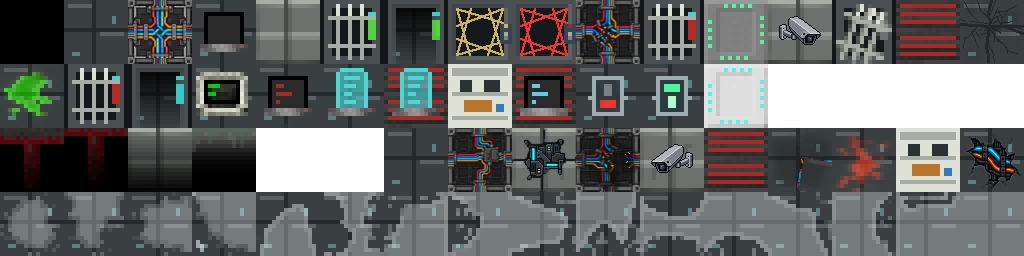
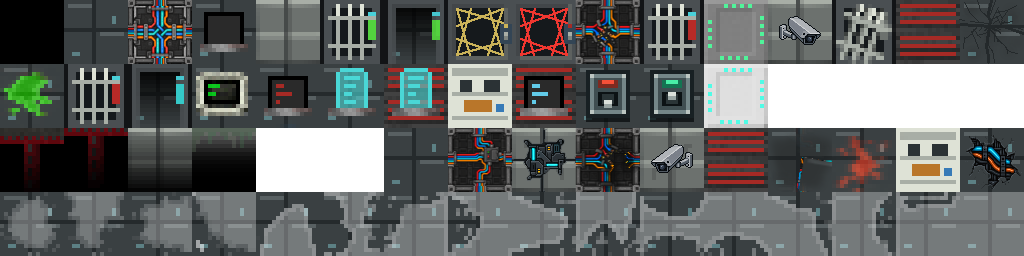
Complete level interaction cleanup and update asset tiles

Changed region(s): [[0.5625, 0.25, 0.6875, 0.5]]

diff --git a/art/terrain/BreakerTileUpdater.java b/art/terrain/BreakerTileUpdater.java
@@ -1,0 +1,107 @@
+import java.awt.Color;
+import java.awt.Graphics2D;
+import java.awt.RenderingHints;
+import java.awt.image.BufferedImage;
+import java.io.File;
+import javax.imageio.ImageIO;
+
+public final class BreakerTileUpdater {
+    private static final int CELL = 64;
+    private static final int COLUMNS = 16;
+    private static final int FLOOR = 1;
+    private static final int BREAKER_OFF = 25;
+    private static final int BREAKER_ON = 26;
+
+    public static void main(String[] args) throws Exception {
+        if (args.length == 0) {
+            throw new IllegalArgumentException("Usage: BreakerTileUpdater <tiles.png>...");
+        }
+
+        for (String path : args) {
+            File atlasFile = new File(path);
+            BufferedImage atlas = ImageIO.read(atlasFile);
+            if (atlas.getWidth() != COLUMNS * CELL || atlas.getHeight() != 4 * CELL) {
+                throw new IllegalArgumentException("Expected a 1024x256 terrain atlas: " + path);
+            }
+
+            BufferedImage source = copy(atlas);
+            copyCell(source, atlas, FLOOR, BREAKER_OFF);
+            copyCell(source, atlas, FLOOR, BREAKER_ON);
+            drawBreaker(atlas, BREAKER_OFF, false);
+            drawBreaker(atlas, BREAKER_ON, true);
+            ImageIO.write(atlas, "png", atlasFile);
+        }
+    }
+
+    private static void drawBreaker(BufferedImage atlas, int cell, boolean powered) {
+        Graphics2D g = cellGraphics(atlas, cell);
+
+        // Shadow and outer mounting plate.
+        g.setColor(new Color(8, 12, 14, 190));
+        g.fillRect(10, 10, 44, 48);
+        g.setColor(new Color(24, 32, 35));
+        g.fillRect(10, 6, 44, 48);
+        g.setColor(new Color(116, 134, 136));
+        g.fillRect(14, 10, 36, 40);
+        g.setColor(new Color(64, 78, 81));
+        g.fillRect(18, 14, 28, 32);
+
+        // Status lamp with a bright core and restrained spill.
+        Color statusDark = powered ? new Color(20, 116, 82) : new Color(126, 42, 32);
+        Color status = powered ? new Color(72, 238, 166) : new Color(246, 80, 56);
+        g.setColor(statusDark);
+        g.fillRect(22, 16, 20, 8);
+        g.setColor(status);
+        g.fillRect(26, 16, 12, 4);
+
+        // Recessed vertical switch track.
+        g.setColor(new Color(12, 18, 20));
+        g.fillRect(22, 28, 20, 14);
+        g.setColor(new Color(42, 52, 54));
+        g.fillRect(26, 30, 12, 10);
+        g.setColor(new Color(152, 164, 162));
+        g.fillRect(28, powered ? 28 : 36, 8, 8);
+        g.setColor(new Color(218, 224, 218));
+        g.fillRect(28, powered ? 28 : 36, 8, 4);
+
+        // Corner fasteners make the control read as mounted equipment.
+        g.setColor(new Color(188, 198, 194));
+        g.fillRect(14, 10, 4, 4);
+        g.fillRect(46, 10, 4, 4);
+        g.fillRect(14, 46, 4, 4);
+        g.fillRect(46, 46, 4, 4);
+        g.dispose();
+    }
+
+    private static Graphics2D cellGraphics(BufferedImage atlas, int cell) {
+        Graphics2D g = atlas.createGraphics();
+        g.setRenderingHint(RenderingHints.KEY_ANTIALIASING, RenderingHints.VALUE_ANTIALIAS_OFF);
+        g.translate((cell % COLUMNS) * CELL, (cell / COLUMNS) * CELL);
+        g.clipRect(0, 0, CELL, CELL);
+        return g;
+    }
+
+    private static void copyCell(BufferedImage source, BufferedImage target,
+                                 int sourceCell, int targetCell) {
+        int sourceX = (sourceCell % COLUMNS) * CELL;
+        int sourceY = (sourceCell / COLUMNS) * CELL;
+        int targetX = (targetCell % COLUMNS) * CELL;
+        int targetY = (targetCell / COLUMNS) * CELL;
+        Graphics2D g = target.createGraphics();
+        g.setRenderingHint(RenderingHints.KEY_INTERPOLATION,
+                RenderingHints.VALUE_INTERPOLATION_NEAREST_NEIGHBOR);
+        g.drawImage(source,
+                targetX, targetY, targetX + CELL, targetY + CELL,
+                sourceX, sourceY, sourceX + CELL, sourceY + CELL, null);
+        g.dispose();
+    }
+
+    private static BufferedImage copy(BufferedImage source) {
+        BufferedImage result = new BufferedImage(source.getWidth(), source.getHeight(),
+                BufferedImage.TYPE_INT_ARGB);
+        Graphics2D g = result.createGraphics();
+        g.drawImage(source, 0, 0, null);
+        g.dispose();
+        return result;
+    }
+}

diff --git a/core/src/main/java/com/wafitz/pixelspacebase/levels/Level.java b/core/src/main/java/com/wafitz/pixelspacebase/levels/Level.java
@@ -65,7 +65,6 @@ import com.wafitz.pixelspacebase.items.upgrades.Upgrade;
 import com.wafitz.pixelspacebase.items.upgrades.UpgradePatch;
 import com.wafitz.pixelspacebase.levels.features.Chasm;
 import com.wafitz.pixelspacebase.levels.features.Door;
-import com.wafitz.pixelspacebase.levels.features.FloorBreaker;
 import com.wafitz.pixelspacebase.levels.features.OffVent;
 import com.wafitz.pixelspacebase.levels.painters.Painter;
 import com.wafitz.pixelspacebase.levels.vents.Vent;
@@ -987,12 +986,6 @@ public abstract class Level implements Bundlable {
             case Terrain.CRAFTING:
                 if (ch == null) {
                     Craft.transmute(cell);
-                }
-                break;
-
-            case Terrain.BREAKER:
-                if (ch == SpacebaseRun.hero) {
-                    FloorBreaker.operate(cell);
                 }
                 break;
 

diff --git a/PLAN.md b/PLAN.md
@@ -7,12 +7,12 @@ Use this as the working backlog for the next sprint. Put rough ideas in Suggesti
 - [x] Cat follow-up idea for the next version.
 - [ ] Refactor code and suggest improvements.
 - [ ] What could replace Yog Duza? Maybe a giant angel.
-- [ ] Need to replace chief's pickaxe (screwdriver) with a suitable tool icon.
-- [ ] Need a new reward for chief since reforging redundant.
+- [x] Need to replace chief's pickaxe (screwdriver) with a suitable tool icon.
+- [x] Need a new reward for chief since reforging redundant.
 
 ## Mechanics
 
-- [ ] Cat rescue route after the final boss.
+- [x] Cat rescue route after the final boss.
     - [x] Add a pet carrier item with placeholder icon, equip behavior, save data, and text.
     - [x] On defeating the final boss, drop the pet carrier.
     - [x] Track whether the station cat is following, dead, gone, or carried in the pet carrier.
@@ -42,16 +42,16 @@ Use this as the working backlog for the next sprint. Put rough ideas in Suggesti
 ## Graphical Changes
 
 - [ ] Manual work (Not for codex)
-    - [ ] Pet carrier (needs new sprite and codex for mapping)
-    - [ ] Tengu sprite
+    - [x] Pet carrier (needs new sprite and codex for mapping)
+    - [x] Tengu sprite
     - [x] Alien egg
     - [x] Fix prison floor alignment
-    - [ ] Broken floor tiles
+    - [x] Broken floor tiles
     - [x] NPC appearances
-    - [ ] Terminals
-    - [ ] Breaker
+    - [x] Terminals
+    - [x] Breaker
     - [x] Jawar
-    - [ ] Floating terrain traps need to be remapped.
+    - [x] Floating terrain traps need to be remapped.
     - [x] Music
         - [x] Engineering Boss
         - [x] Habitation
@@ -134,8 +134,8 @@ Use this as the working backlog for the next sprint. Put rough ideas in Suggesti
 
 - [x] Re-enable any needed dev/test helpers deliberately behind a clear flag.
 - [ ] Update release notes and version (on plan completion)
-- [ ] Run `./gradlew :core:testDebugUnitTest`.
-- [ ] Run `./gradlew :core:assembleDebug`.
+- [x] Run `./gradlew :core:testDebugUnitTest`.
+- [x] Run `./gradlew :core:assembleDebug`.
 
 ## v1.0.4
 
@@ -144,17 +144,17 @@ Use this as the working backlog for the next sprint. Put rough ideas in Suggesti
 - [ ] Code cleanup and refactor
 - [ ] Alter torch to be equipped in quickslots to activate
 - [ ] Hunter suit to detect <sci-fi term> signatures (lights off, can visualise all enemies/npcs on a level in the dark)
-- [ ] Workbench icon/sprite
+- [x] Workbench icon/sprite
 - [ ] Chasms/black should have a subtle starry background, with potentially a planet and nearby star.
 - [ ] Small wormhole generator - can active and select any visible tile on the map.
 - [ ] Fire sprites on walls should be replaced with electrical fizzes.
 - [ ] A battery doused with medigel can explode (locked doors, blockage)
 - [ ] The lazer gun quest- make holodeck look like the offline holodeck, make the 'bodies' be something else, make the lazer be something else.
-- [ ] Tripping the breaker should be ab active task, not trip just by running over it.
+- [x] Tripping the breaker should be an active task, not trip just by running over it.
 - [ ] Be able to render the drone controller.
-- [ ] Still need to fix intro text box.
-- [ ] Fix health bar.
+- [x] Still need to fix intro text box.
+- [x] Fix health bar.
 - [ ] Have a 'now playing' for music.
 - [ ] Challenges Icon update
-- [ ] UI Health bar cleanup
-- [ ] Tiles overlay fix
+- [x] UI Health bar cleanup
+- [x] Tiles overlay fix
